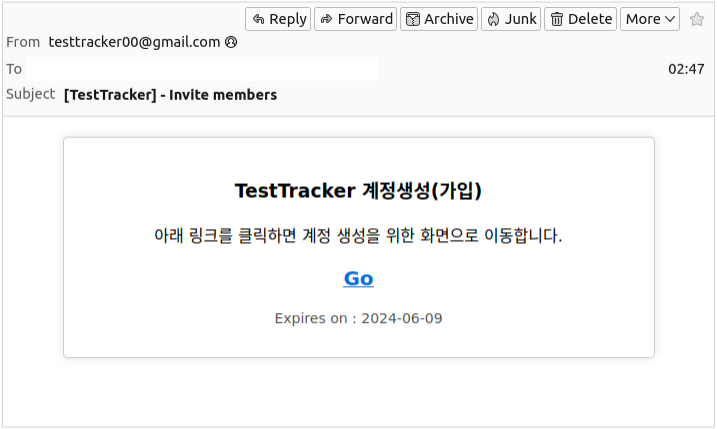
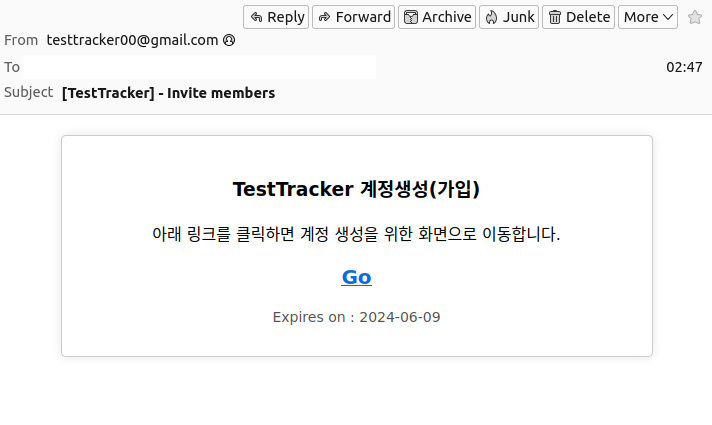
GITBOOK-7: No subject

diff --git a/guides/README.md b/guides/README.md
@@ -1,10 +1,21 @@
 ---
-description: TestTracker에서 제공하는 서비스를 이용하기 위해 가입 및 사용자 계정 생성을 위한 절차를 설명합니다.
+description: TestTracker에서 제공하는 서비스를 이용하기 위한 가입 및 사용자 계정 생성 절차를 설명합니다.
 ---
 
 # 서비스 가입 및 계정 생성
 
-TestTracker를 이용하기 위한 가입 절차는 admin으로부터 임시 URL 이 포함된 email 을 수신하는 것으로부터 시작됩니다.
+## 1. Invitation email 확인
 
-<figure><img src=".gitbook/assets/image (2).png" alt="" width="538"><figcaption></figcaption></figure>
+TestTracker 가입 절차는 TT-Admin으로부터 Invitation email 을 수신하는 것으로부터 시작됩니다. 해당 email 은 사용자 계정 생성을 위한 화면으로 이동할 수 있는 링크와 해당 링크의 유효기간을 나타내는 만료 일자를 포함합니다. 소속 기관 또는 기업의 본인 이메일 수신함에서 아래와 같은 TestTracker Invitation email 확인 후 "Go" 버튼을 클릭하시기 바랍니다.
 
+<figure><img src=".gitbook/assets/image (2) (1).png" alt="" width="538"><figcaption><p>TT-Admin으로부터 발신된 Invitation email</p></figcaption></figure>
+
+{% hint style="warning" %}
+Invitation email 은 발송 일로부터 임의의 기간 동안만 유효합니다. 유효기간 만료 후 회원가입(계정 생성)을 위한 시도는 허용되지 않으니 메일 본문 내 만료일 참고하시어 해당 기간 이내에 진행해 주시기 바랍니다. (만료 이후 계정 생성 필요시 Contact page를 통해 재 요청 가능)
+{% endhint %}
+
+## 2. 사용자 계정정보 입력
+
+Invitation email에서 "Go" 버튼 클릭 시 인터넷 브라우저에서 아래와 같은 페이지로 이동합니다. 사용자 계정 생성을 위해 필요한 정보를 입력하신 후 하단의 "Sign up" 버튼을 클릭하시기 바랍니다.
+
+<figure><img src=".gitbook/assets/image (1).png" alt=""><figcaption></figcaption></figure>
